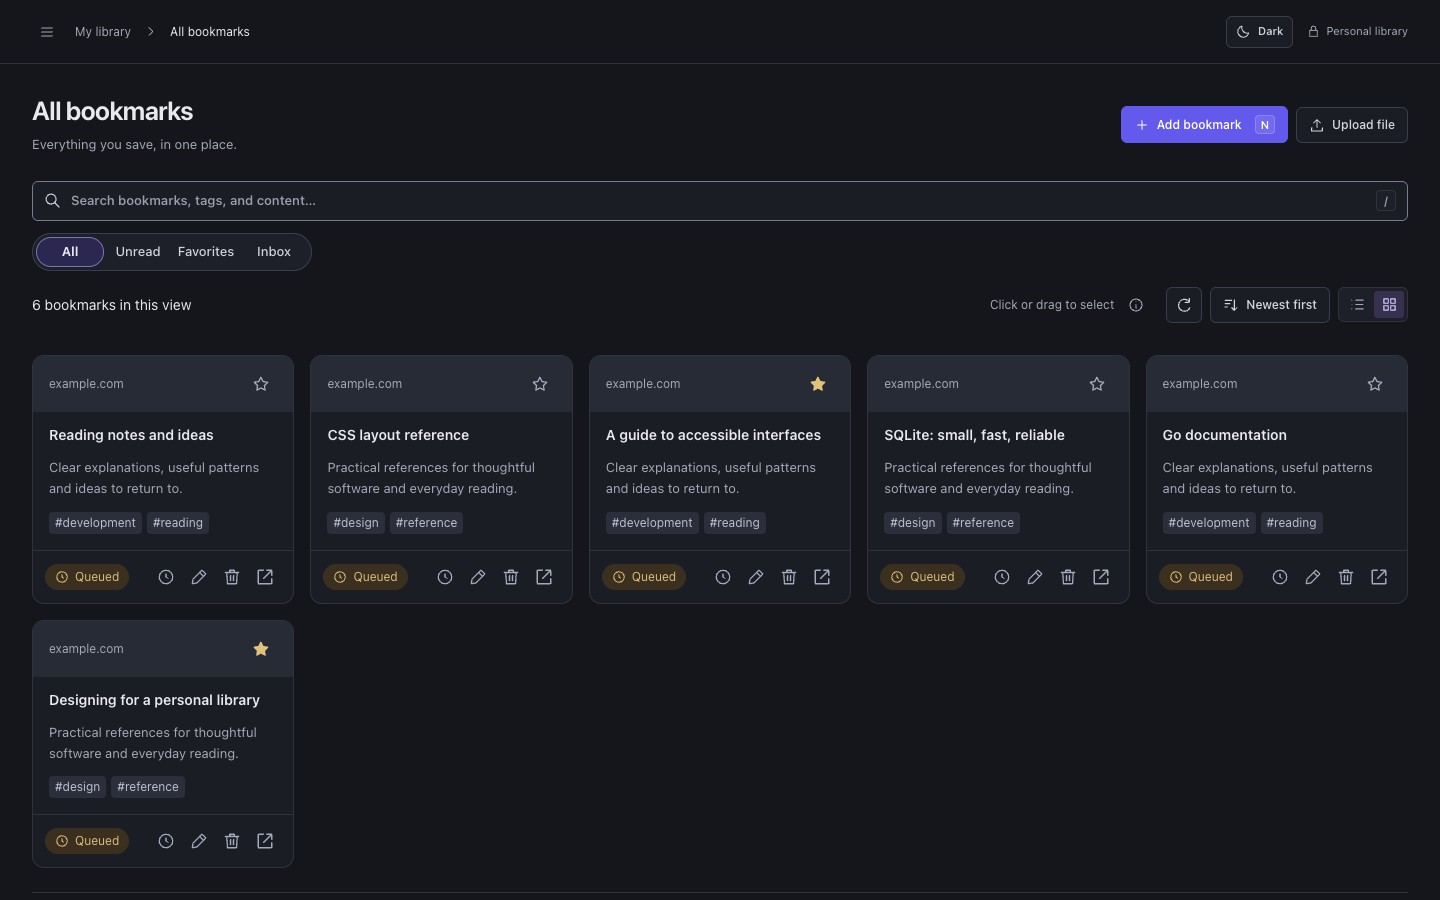
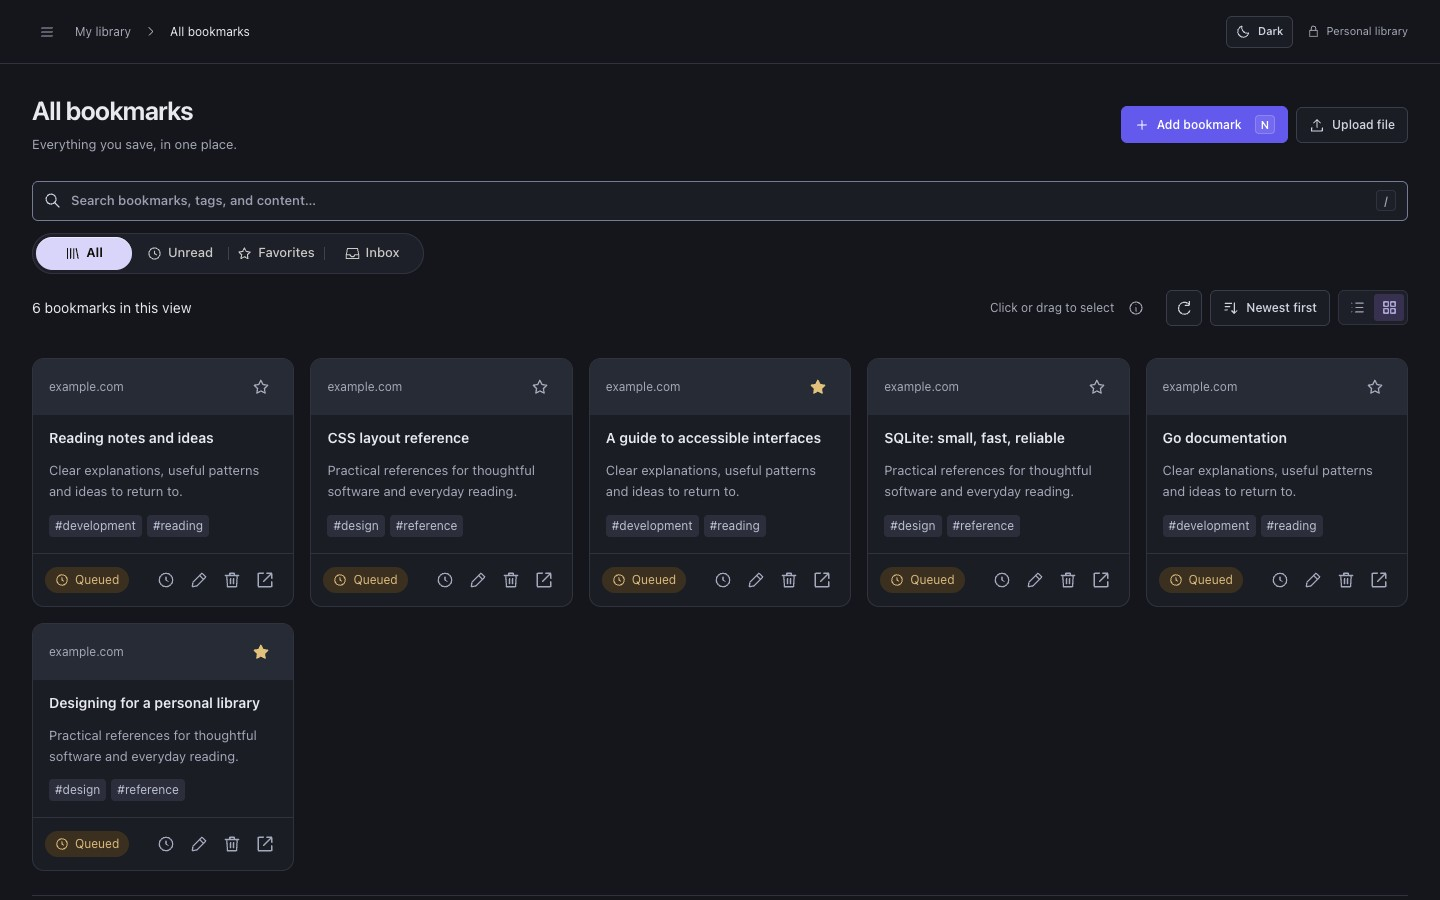
feat(library): refine the segmented filter selector

diff --git a/internal/webui/static/style.css b/internal/webui/static/style.css
@@ -136,18 +136,78 @@ h1 { font-size: 26px; line-height: 1.3; font-weight: 650; letter-spacing: -.7px;
 .text-button { border: 0; background: transparent; color: #5146c8; font-size: 12px; padding: 4px 0; }
 .text-button:hover { text-decoration: underline; text-underline-offset: 3px; }
 .library-toolbar { display: flex; gap: 8px; align-items: center; }
-.quick-filters { display: grid; grid-template-columns: repeat(4, minmax(0, 1fr)); width: min(100%, 20rem); min-width: 0; margin: 12px 0 0; padding: 3px; border: 1px solid var(--control-border); border-radius: 999px; background: var(--surface); }
-.quick-filters label { position: relative; margin: 0; font-size: 13px; font-weight: 500; }
+.quick-filters {
+  --filter-inset: 4px;
+  --filter-track: color-mix(in srgb, var(--ink) 9%, var(--paper));
+  --filter-thumb: var(--paper);
+  --filter-label-ink: var(--control-ink);
+  --filter-hover-ink: var(--ink);
+  --filter-selected-ink: var(--accent-hover);
+  position: relative;
+  isolation: isolate;
+  display: grid;
+  grid-template-columns: repeat(4, minmax(0, 1fr));
+  container-type: inline-size;
+  width: min(100%, 28rem);
+  min-width: 0;
+  margin: 12px 0 0;
+  padding: var(--filter-inset);
+  border: 0;
+  border-radius: 999px;
+  background: var(--filter-track);
+  box-shadow: inset 0 1px 2px #10122412;
+}
+:root[data-theme="dark"] .quick-filters {
+  --filter-track: var(--surface);
+  --filter-thumb: #d9d5fa;
+  --filter-label-ink: var(--ink);
+  --filter-hover-ink: white;
+  --filter-selected-ink: var(--ink);
+  box-shadow: inset 0 0 0 1px var(--line);
+}
+.quick-filters:has(:checked)::before {
+  content: "";
+  position: absolute;
+  inset: var(--filter-inset) auto var(--filter-inset) var(--filter-inset);
+  width: calc((100% - 2 * var(--filter-inset)) / 4);
+  border-radius: inherit;
+  background: var(--filter-thumb);
+  box-shadow: inset 0 1px 0 #ffffff80, 0 1px 3px #18162d29;
+  transform: translateX(var(--filter-offset, 0%));
+  pointer-events: none;
+}
+.quick-filters:has([value="unread"]:checked) { --filter-offset: 100%; }
+.quick-filters:has([value="favorite"]:checked) { --filter-offset: 200%; }
+.quick-filters:has([value="inbox"]:checked) { --filter-offset: 300%; }
+.quick-filters label { position: relative; margin: 0; border-radius: inherit; font-size: 13px; font-weight: 500; }
+.quick-filters label + label::before {
+  content: "";
+  position: absolute;
+  inset: 30% auto 30% 0;
+  border-inline-start: 1px solid color-mix(in srgb, var(--muted) 25%, transparent);
+}
+.quick-filters label:has(:checked)::before,
+.quick-filters label:has(:checked) + label::before { visibility: hidden; }
 .quick-filters input { position: absolute; inset: 0; z-index: 1; width: 100%; height: 100%; margin: 0; opacity: 0; cursor: pointer; }
-.quick-filters label span { display: grid; place-items: center; min-height: 30px; border: 1px solid transparent; border-radius: 999px; color: var(--control-ink); }
-.quick-filters label:hover span { background: var(--control-hover); }
-.quick-filters input:checked + span { background: var(--accent-soft); color: var(--ink); border-color: color-mix(in srgb, var(--focus) 60%, var(--control-border)); font-weight: 650; }
-.quick-filters input:focus-visible + span { outline: 2px solid var(--focus); outline-offset: 1px; }
-@media (max-width: 600px) { .quick-filters label span { min-height: 44px; } }
+.quick-filter-label { display: flex; align-items: center; justify-content: center; gap: 6px; min-height: 33px; border-radius: inherit; color: var(--filter-label-ink); }
+.quick-filter-label .icon { width: 15px; height: 15px; }
+.quick-filters label:hover .quick-filter-label { color: var(--filter-hover-ink); }
+.quick-filters input:checked + .quick-filter-label { color: var(--filter-selected-ink); font-weight: 650; }
+.quick-filters label:has(:focus-visible) { outline: 2px solid var(--focus); outline-offset: 1px; }
+@media (forced-colors: none) {
+  /* Keep the glyphs legible as the light thumb passes underneath them. */
+  :root[data-theme="dark"] .quick-filter-label { mix-blend-mode: difference; }
+}
+@container (max-width: 336px) { .quick-filter-label [data-icon] { display: none; } }
+@media (max-width: 600px) { .quick-filter-label { min-height: 44px; } }
+@media (prefers-reduced-motion: no-preference) {
+  .quick-filters::before { transition: transform 180ms var(--ease-ui); }
+}
 @media (forced-colors: active) {
-  .quick-filters input:not(:checked) + span { border-style: none; }
-  .quick-filters input:checked + span { forced-color-adjust: none; background: Highlight; color: HighlightText; border-color: Highlight; }
-  .quick-filters input:focus-visible + span { outline-color: CanvasText; }
+  .quick-filters { outline: 1px solid ButtonText; }
+  .quick-filters:has(:checked)::before { content: none; }
+  .quick-filters input:checked + .quick-filter-label { forced-color-adjust: none; background: Highlight; color: HighlightText; }
+  .quick-filters label:has(:focus-visible) { outline-color: CanvasText; }
 }
 .search-box { display: flex; align-items: center; gap: 10px; flex: 1; min-width: 0; background: #fff; border: 1px solid #dcdfe7; padding: 0 11px; border-radius: 6px; margin: 0; color: #737b8c; }
 .search-box input { width: 100%; min-width: 0; padding: 9px 0; border: 0; border-radius: 0; background: transparent; font-size: 13px; }
@@ -651,7 +711,7 @@ body:has(dialog[open]) { overflow: hidden; }
   .library-header .reader-actions { width: 100%; }
   .library-header .reader-actions > .button { min-height: 44px; }
   .primary kbd, .search-box kbd { display: none; }
-  .library-toolbar { flex-wrap: wrap; padding-bottom: 14px; }
+  .library-toolbar { flex-wrap: wrap; }
   .library-toolbar .search-box { flex-basis: 100%; }
   .search-box input { font-size: 16px; padding-block: 11px; }
   .library-toolbar > select { flex: 1; max-width: none; min-height: 40px; }

diff --git a/frontend/src/components/app-view.jsx b/frontend/src/components/app-view.jsx
@@ -278,11 +278,11 @@ export function AppView() {
             <fieldset className="quick-filters">
               <legend className="sr-only">Filter bookmarks</legend>
               {[
-                ["all", "All"],
-                ["unread", "Unread"],
-                ["favorite", "Favorites"],
-                ["inbox", "Inbox"],
-              ].map(([value, label]) => (
+                ["all", "All", "library"],
+                ["unread", "Unread", "clock"],
+                ["favorite", "Favorites", "star"],
+                ["inbox", "Inbox", "inbox"],
+              ].map(([value, label, icon]) => (
                 <label key={value}>
                   <Input
                     type="radio"
@@ -290,7 +290,10 @@ export function AppView() {
                     value={value}
                     defaultChecked={value === "all"}
                   />
-                  <span>{label}</span>
+                  <span className="quick-filter-label">
+                    <span data-icon={icon} aria-hidden="true"></span>
+                    {label}
+                  </span>
                 </label>
               ))}
             </fieldset>

diff --git a/DESIGN.md b/DESIGN.md
@@ -248,7 +248,9 @@ Small rectangular tags use neutral fill, short padding and compact type. Hover o
 
 ### Segmented control
 
-Quick filters beneath library search share one rounded track with four equal segments and centered labels. The current destination has a soft indigo fill, a fine outline and a heavier label. A tag or named collection leaves the four global destinations unselected. Keep the segments on one line with 44px minimum targets on phones. Tab enters the native radio group and arrow keys switch destinations while keeping focus in the group.
+Quick filters beneath library search sit on a single recessed track. A raised white thumb in light mode and a pale lavender thumb in dark mode mark the current destination. Fine dividers separate neighboring inactive segments. Center each label with its navigation icon and drop the icons when the track is too narrow. Keep the four labels on one line with 44px minimum targets on phones.
+
+Tab enters the native radio group. Arrow keys switch destinations and slide the thumb into place over 180ms. Reduced motion makes the change immediate. A tag or named collection leaves the four global destinations unselected.
 
 ### Capture status
 
